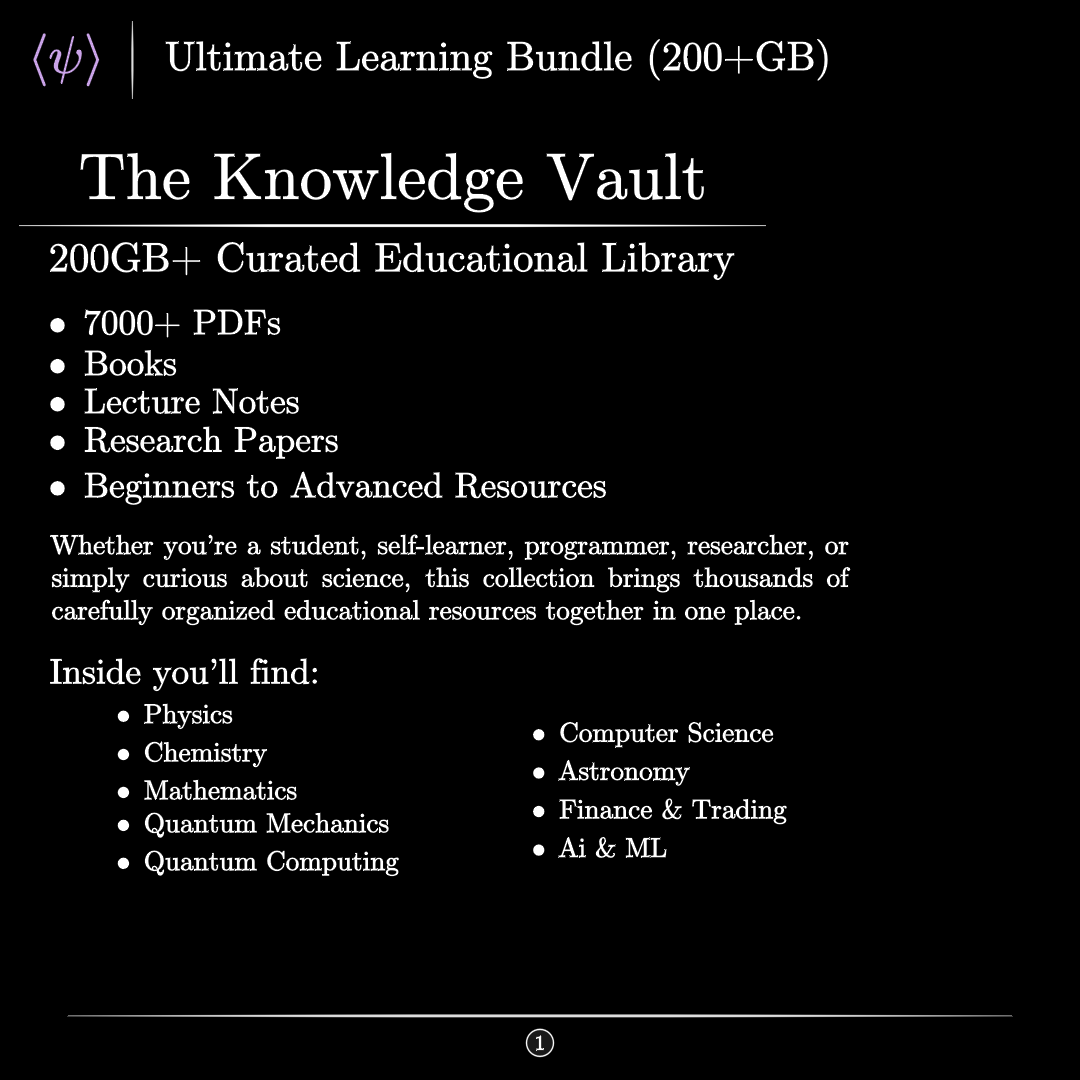
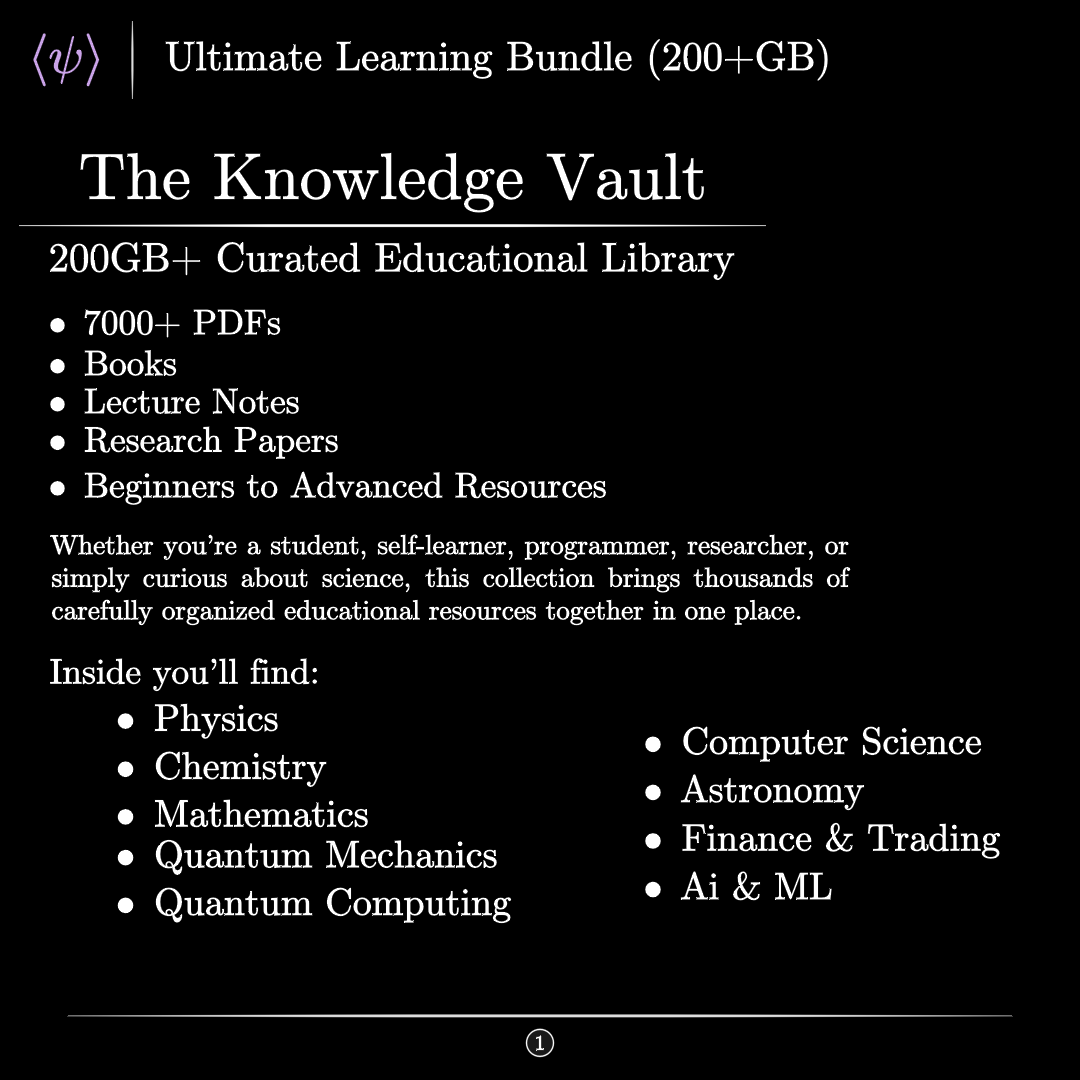
f

Changed region(s): [[0.0917, 0.6417, 0.4889, 0.8556], [0.4889, 0.6722, 0.9472, 0.8556]]

diff --git a/test.py b/test.py
@@ -90,7 +90,7 @@ class Paid(PaidTemplate):
                     "Mathematics",
                     "Quantum Mechanics",
                     "Quantum Computing",
-                    font_size=20,
+                    font_size=28,
                     buff=SMALL_BUFF
                 ),
                 BulletedList(
@@ -98,7 +98,7 @@ class Paid(PaidTemplate):
                     "Astronomy",
                     R"Finance \& Trading",
                     R"Ai \& ML",
-                    font_size=20,
+                    font_size=28,
                     buff=SMALL_BUFF
                 )
             ).arrange(RIGHT, buff=LARGE_BUFF)
